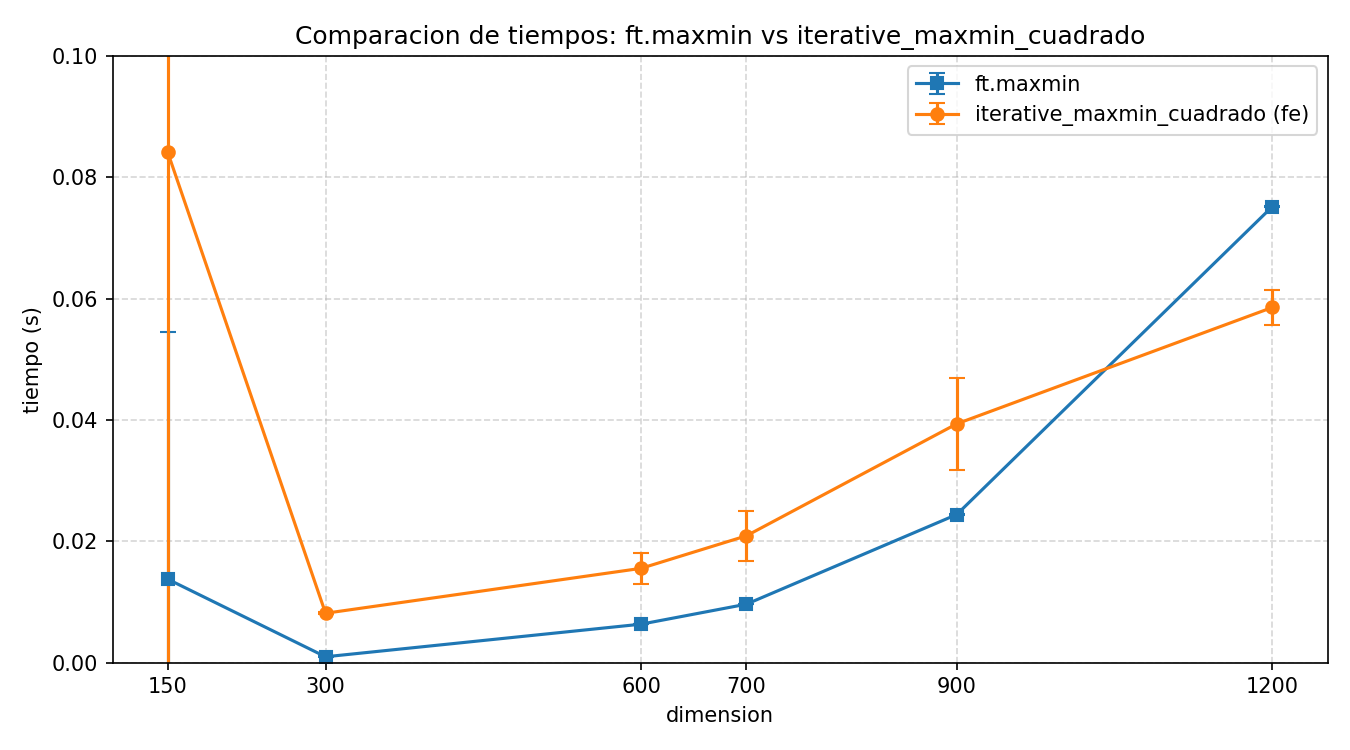
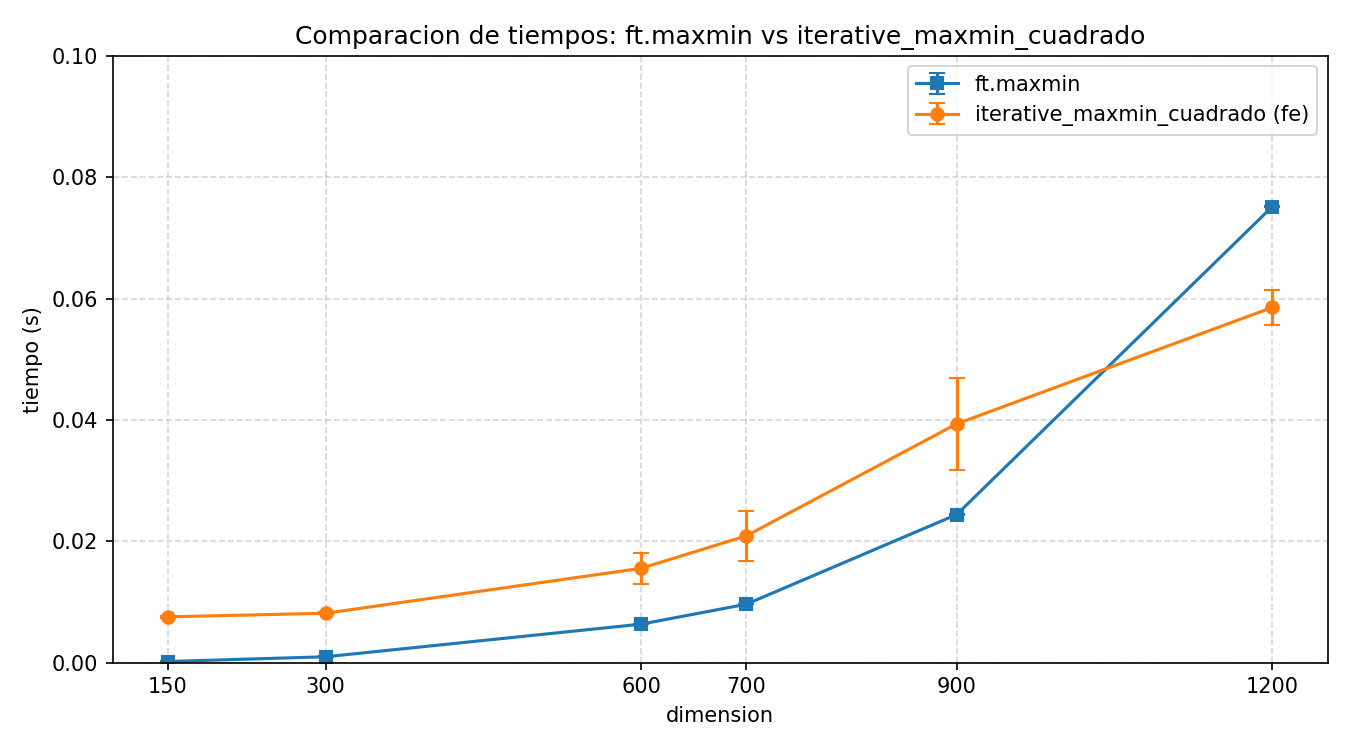
benchmark: timig

Changed region(s): [[0.1244, 0.7667, 0.2489, 0.8893], [0.1244, 0.184, 0.1556, 0.368], [0.1556, 0.4907, 0.1867, 0.5213]]

diff --git a/comparativa/time.py b/comparativa/time.py
@@ -40,7 +40,8 @@ def main():
     with open("time_results.csv", "w", newline="") as f:
         writer = csv.writer(f)
         writer.writerow(["dimension", "funcion", "repeticion", "tiempo_s"])
-
+        t_ft = run_ft(100, 101)
+        t_fe = run_fe(100, 101)
         for dim in DIMENSIONS:
             for rep in range(REPEATS):
                 t_ft = run_ft(dim, SEED + rep)
